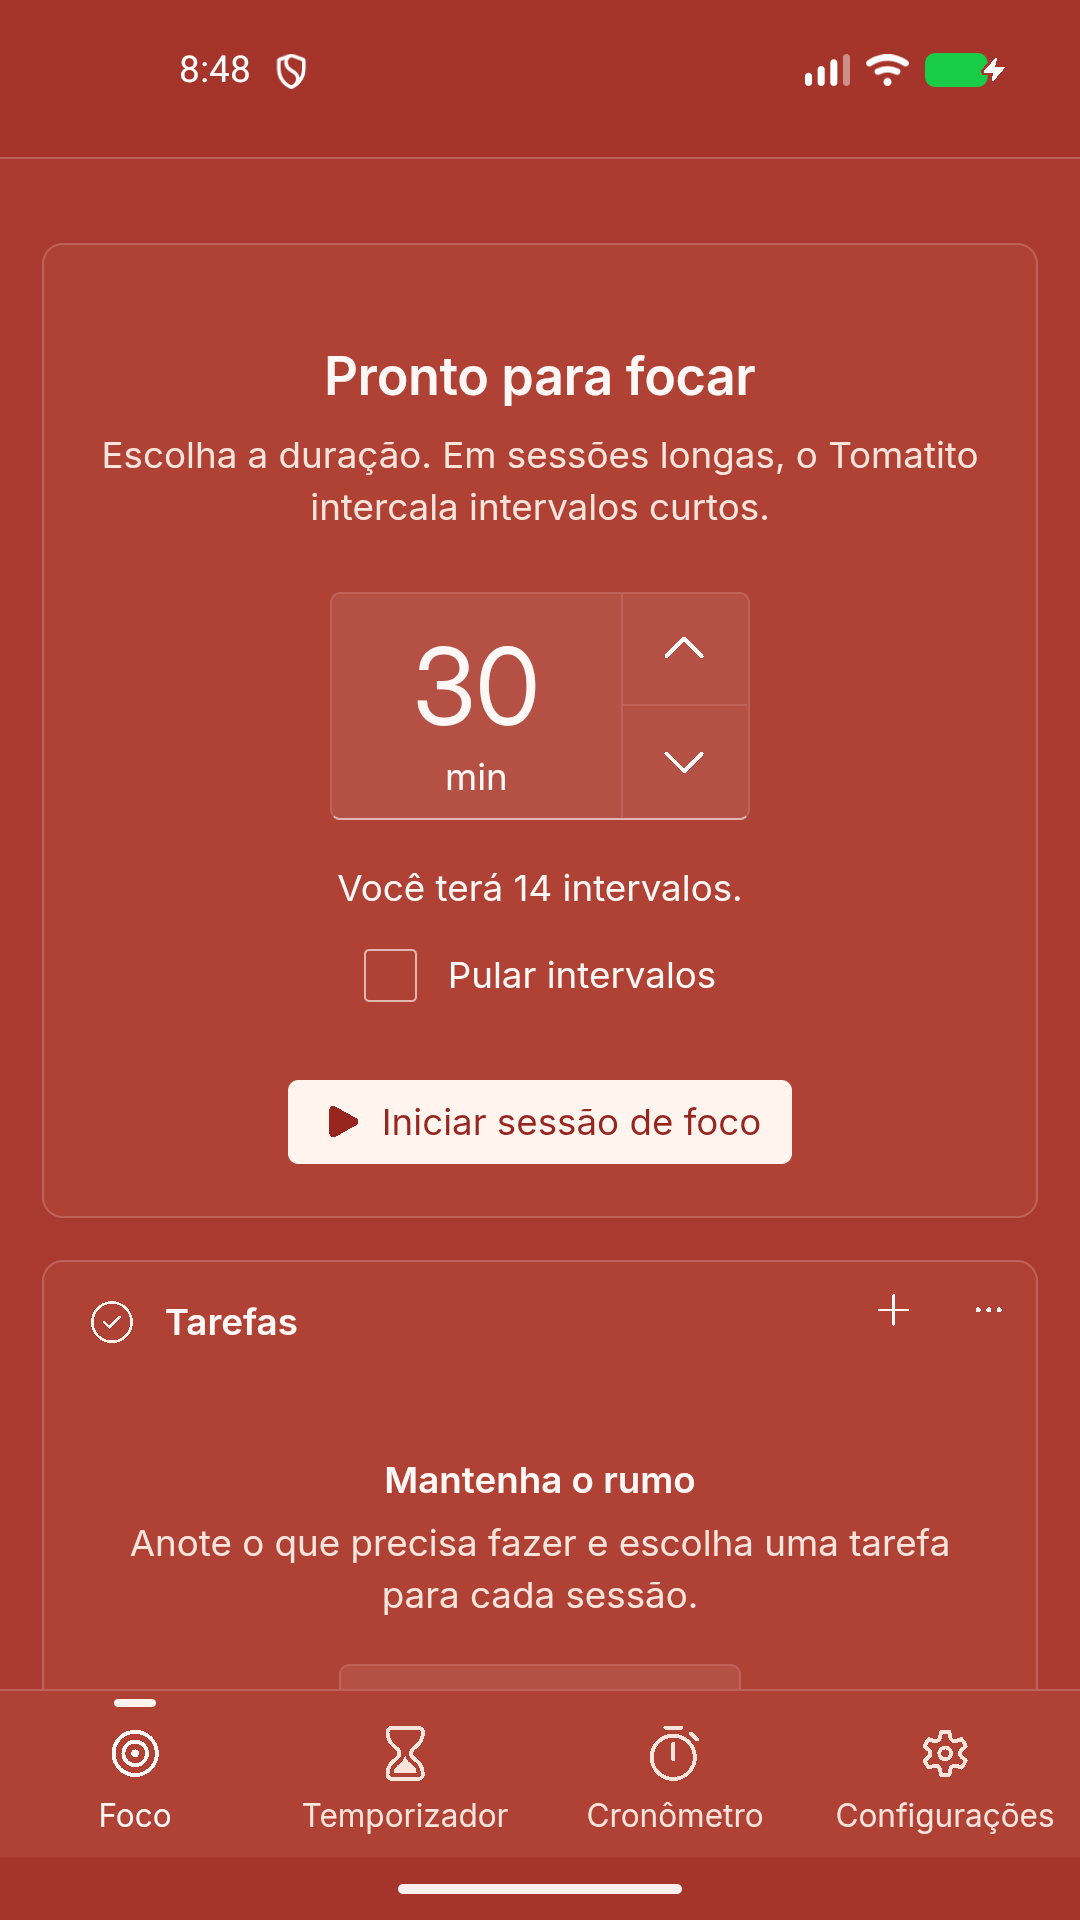
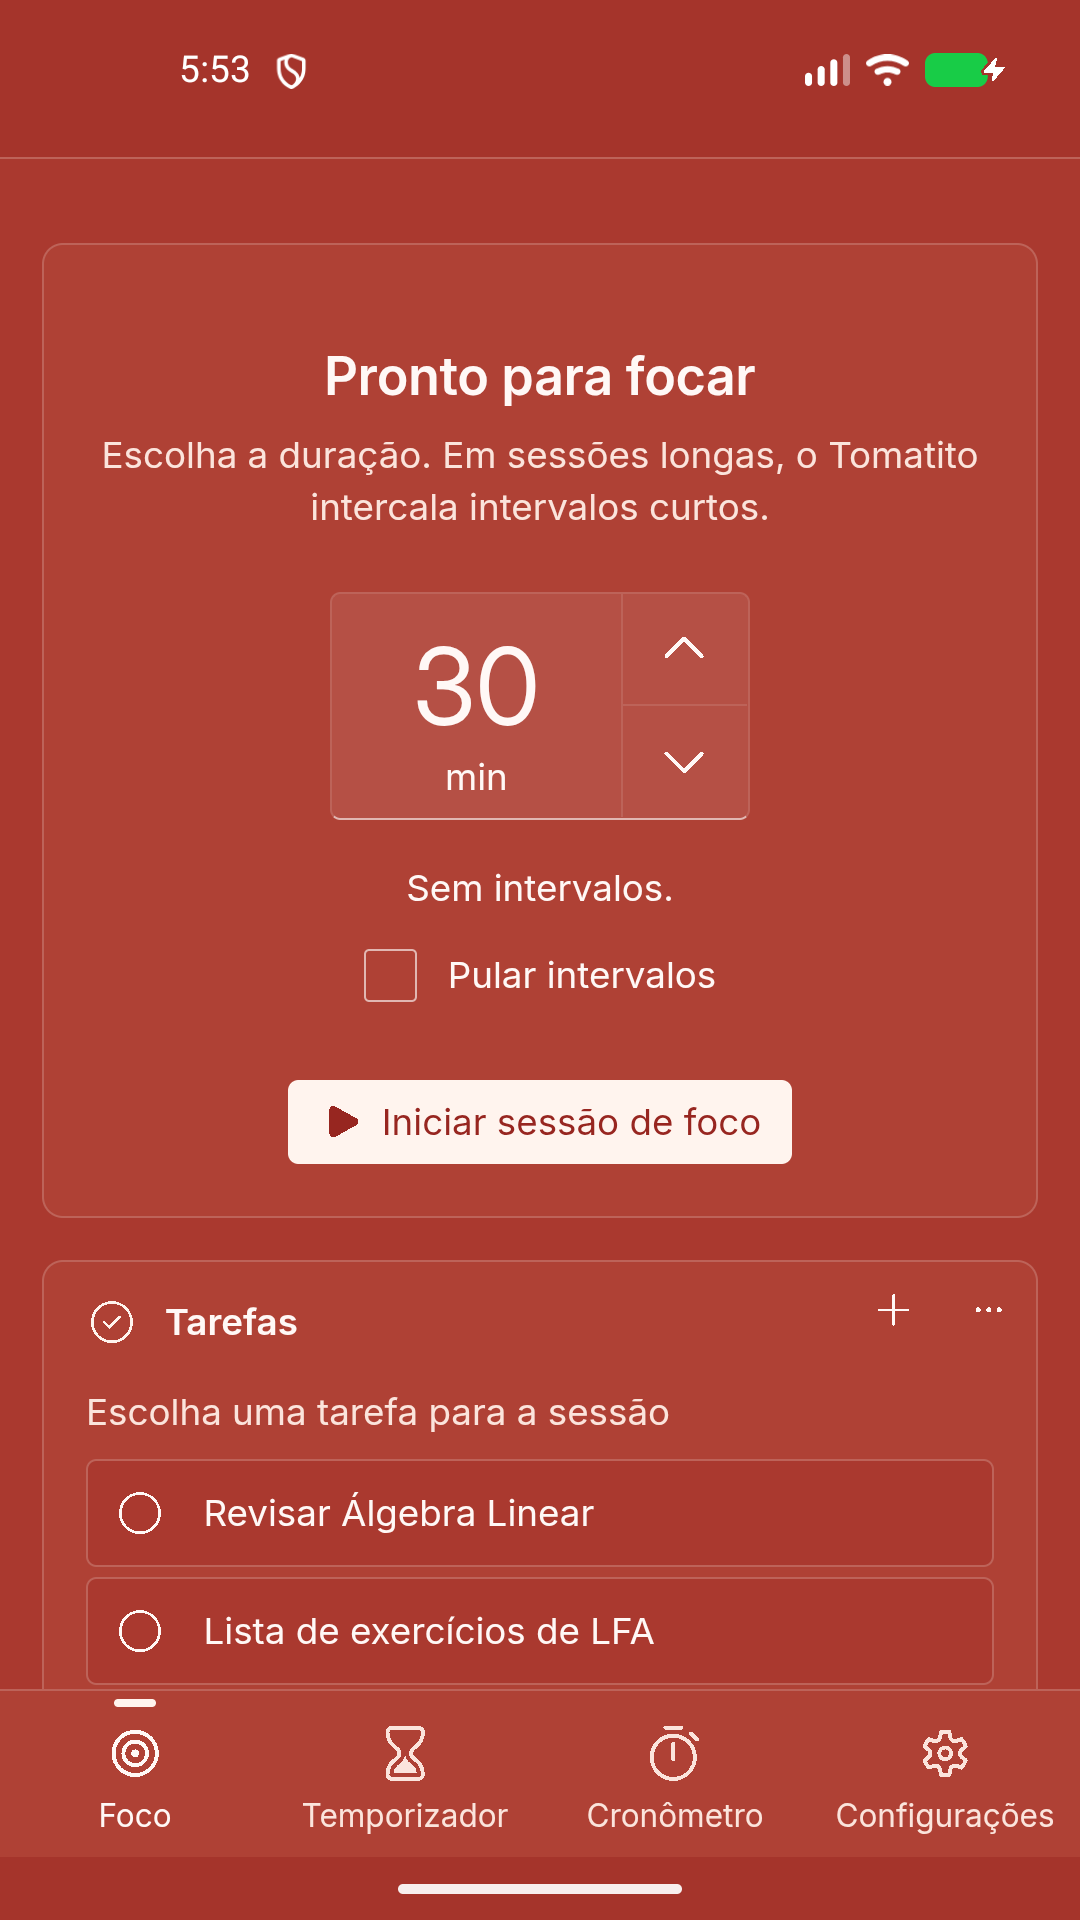
Android: a inicialização não monta a barra de título do desktop
A recusa do plugin de janela ("Plugin window not initialized") interrompia
o fim do módulo: o app ficava sem transições e a conferência do tema não
rodava. Some também o "Uncaught #<Object>" do console.

Versão 0.3.0, README e docs da v0.3.

Changed region(s): [[0.0917, 0.7188, 0.8861, 0.875], [0.3056, 0.4375, 0.6722, 0.4688], [0.1833, 0.0312, 0.2139, 0.0625]]

diff --git a/src/styles/controls.css b/src/styles/controls.css
@@ -372,7 +372,7 @@ fluent-dialog.tt-dialogo-historico::part(dialog){ width:400px; max-width:calc(10
 /* As barras: uma por semana, da mais antiga à mais nova, na altura da fração
    da maior (a --tt-fracao vem do JS). A semana sem foco fica só com o traço. */
 .tt-historico-grafico{ display:flex; align-items:flex-end; gap:6px; height:72px; padding:0 2px; border-bottom:1px solid var(--tt-border); }
-.tt-historico-barra{ flex:1 1 0; min-width:0; height:max(2px, calc(var(--tt-fracao, 0) * 100%)); border-radius:3px 3px 0 0; background:var(--tt-accent-fg); }
+.tt-historico-barra{ flex:1 1 0; min-width:0; max-width:28px; height:max(2px, calc(var(--tt-fracao, 0) * 100%)); border-radius:3px 3px 0 0; background:var(--tt-accent-fg); }
 .tt-historico-barra[data-vazia]{ background:var(--tt-stroke-control); opacity:.5; }
 .tt-historico-rolagem{ max-height:min(196px, 30dvh); margin-top:12px; overflow-y:auto; border-radius:var(--tt-r-ctl); }
 .tt-historico-rolagem:focus-visible{ outline:2px solid var(--tt-focus-outer); outline-offset:2px; }

diff --git a/src/main.js b/src/main.js
@@ -170,7 +170,12 @@ try {
   const pronto = Promise.all([...USADOS.map((t) => customElements.whenDefined(t)), document.fonts.ready, ligado]);
   await Promise.race([pronto, new Promise((r) => setTimeout(r, 2000))]);   // nunca deixar a janela presa escondida
 
-  await montarBarraDeTitulo(document.querySelector('.tt-titlebar'), win);
+  // No Android não há barra de título (a casca a esconde) nem janela para
+  // maximizar: o `isMaximized` cairia no plugin `window` do Kotlin, que não
+  // existe, e a recusa ("Plugin window not initialized") interrompia este
+  // módulo antes do fim (as transições ficavam desligadas e a conferência do
+  // tema não rodava).
+  if (!casca.android) await montarBarraDeTitulo(document.querySelector('.tt-titlebar'), win);
   if (temaDeBase(h) === 'system') {
     const t = await temaDoSistemaAgora(win, h, () => midia.matches);
     if (t) h.dataset.theme = t;

diff --git a/src-tauri/src/update.rs b/src-tauri/src/update.rs
@@ -51,8 +51,10 @@ pub struct UpdateError {
 
 /// Evento do download: `{ downloaded, total }`, em bytes (`total` nulo se o
 /// servidor não disse o tamanho).
+#[cfg(desktop)]
 pub const EVENTO_PROGRESSO: &str = "tt://update-progress";
 /// Evento da procura ao abrir, quando acha uma versão: `{ version }`.
+#[cfg(desktop)]
 pub const EVENTO_DISPONIVEL: &str = "tt://update-available";
 
 #[cfg(desktop)]

diff --git a/docs/depois.md b/docs/depois.md
@@ -72,17 +72,14 @@ Formato: data, marco em que surgiu e uma linha sobre a ideia.
 
 ## Web: o que ficou para depois (PLANO-WEB-V1, 2.2)
 
-- Manter a tela ligada durante o foco (Wake Lock).
 - Sonda e relógio em Worker para o segundo plano (W10).
-- Instância única entre abas (W15).
-- Exportar e importar os dados (W19).
 - Atalhos na aba (W21) e revisão de acessibilidade da web (W22).
 - CI da web (W25a) e documentação de uso (W25b).
-- Tomatito Full na web: tomate em tela cheia e mini tomate em Picture-in-Picture (WF0–WF4).
 - `--servidor pages` no `verificar.mjs` e o caso `pwa-publicado` (W40b).
 - **Tamanho do `.wasm` da web (anotado no W09, 30/09/2026).** Com a retomada, o `tomatito_wasm_bg.wasm` tem 534 103 bytes, 1 623 acima do limite de 532 480 (520 KiB) do W01a e do W06a (detalhe e tentativas em `docs/web/linha-de-base.md`, W09). Decidir entre subir o limite (o gzip é de 205 KB) ou cortar: por exemplo, o tzdb embutido do jiff (a maior parte dos 250 KiB da seção de dados) ou uma desserialização manual das partes do estado.
 - **Android: rodada com o *notification cooldown* do sistema (A12).** O `emulador.mjs subir` desliga o cooldown do Android 15+ para que cada fim da receita de 60 s toque. No aparelho do usuário ele vem ligado, e no A02 um aviso 30 s depois de outro saiu mudo. Rodar o roteiro do A12 uma vez com `settings delete system notification_cooldown_enabled` e registrar se o fim do intervalo (a 60 s do fim do foco) toca, baixo ou mudo. Se calar com fases curtas, anotar na ficha ou no `PUBLICAR.md`; com fases de vários minutos não deve pesar. **Feito no A12 (30/09/2026):** os 3 fins a 60 s tocaram com o cooldown do sistema (`segundo-plano.mjs --cooldown-do-sistema`).
 - **Android: repor a contínua depois do boot (anotado no A11, 30/09/2026).** O `BootReceiver` reagenda os alarmes, mas não a notificação contínua, que o sistema apagou; ela volta no próximo fim ou ao abrir o app. Dá para guardar a contínua de agora nas `SharedPreferences` a cada `agendar`/disparo e repô-la no `reagendar` (se o `fimMs` não venceu, ou se está pausada).
 - **Android: botões na notificação contínua (5.3; anotado no A11).** "Pausar"/"Retomar" pela notificação exigiria acordar o motor (subir o processo e o Rust) a partir de um `BroadcastReceiver`. Fora da v1.
 - **Android: anúncio da sessão concluída na retomada (anotado no A12, 30/09/2026).** Ao reabrir o app depois de a sessão acabar com ele morto, o "Sessão de foco concluída." da região `aria-live` depende de o `tt://phase` da retomada chegar depois de o ouvinte estar ligado (às vezes chega antes e o TalkBack não diz nada). Anunciar a partir do `get_state` inicial quando `focus.status = "completed"` e `completedAt` for recente; e dar à tela Foco do celular um estado "Concluída" visível (A05/A16a).
-- Android: investigar o "Uncaught #<Object>" no console na abertura do app (A06, item 6).
+- **Web: a tela ligada fora do Full.** O Wake Lock entrou só no palco do Tomatito Full (v0.3); na tela Foco normal, a tela ainda pode apagar.
+- **Atualização por dentro do app: a instalação de ponta a ponta.** A procura foi conferida num AppImage de teste (0.2.99 contra um `latest.json` local: achou a 0.3.0 e avisou). O download e a troca do instalador são do plugin do Tauri e só vão ser exercitados de verdade na primeira versão depois da 0.3.0; o Windows nunca foi testado em máquina real.

diff --git a/docs/decisoes.md b/docs/decisoes.md
@@ -1751,3 +1751,14 @@ Na worktree `android`, com A13, A05, A06, A14 e A15 feitos: `npm test` 497/497; 
 2. O `versao.mjs` contava a linha "não enviado" como enviada (o `\s*` antes do lookahead recuava); corrigido.
 
 **Verificação final na `main` (05/10/2026):** `npm test` 498/498; 29 casos da web verdes no perfil de desktop e no `--celular m`; bateria do desktop com `build.txt` igual ao da base, 24/24 capturas iguais e nenhum teste do cargo a menos. O roteiro `config-sistema` acusou 14/16 só porque conferia o texto fixo "Versão 0.1.0"; passou a conferir a forma (`Versão x.y.z`) e voltou a 16/16.
+
+## v0.3 (05/10/2026)
+
+1. **Histórico.** "Ver histórico", no cartão Progresso diário, abre uma janela com o total de todo o tempo (tempo, períodos e dias com foco) e o foco por semana (12 barras e a tabela inteira). O cálculo é o `days::history` do core, o mesmo no desktop, no Android e na web (wasm). Sem sequência, recorde nem comparação: só os números.
+2. **Atualização por dentro do app (desktop).** `tauri-plugin-updater` 2.13.1, sem comandos liberados à página (quem fala com ele é o `update.rs`). **O app só consulta a internet por clique**, ou com "Procurar ao abrir" (`autoUpdate`, desligada por padrão); a consulta lê o `latest.json` do último release publicado. O `tauri.release.conf.json` liga as assinaturas só no `release.yml`, para o build comum não exigir a chave. As chaves ficam fora do repositório (`~/.config/tomatito/updater/`) e nos segredos do GitHub.
+3. **Repositório APT.** O `.deb` leva a fonte (`/etc/apt/sources.list.d/tomatito.sources`) e a chave pública; o `apt.yml` refaz o repositório na branch `gh-pages` a cada release publicado. Conferido com um `apt-get update` isolado sobre o `.deb` da 0.2.0 (assinatura aceita, candidato 0.2.0). Detalhes em `docs/atualizacoes.md`.
+4. **Web: uma aba só.** Web Locks, com a espera dentro do `motor.iniciar()`: numa aba duplicada o motor não nasce. Pôr a espera no `index.js` (top-level await) deixava o `aba.js` ligar o motor antes dos ouvintes, e um período vencido com a aba fechada não era gravado (o caso `retomada` pegou).
+5. **Web: exportar e importar.** Um JSON com as duas stores do IndexedDB e as chaves `tomatito:` do localStorage. Importar substitui tudo numa transação e recarrega; o localStorage e a recarga vão no mesmo passo, para o motor da aba não regravar o estado antigo.
+6. **Web: Tomatito Full.** O tomate num palco por cima do app, com o desenho tirado do `tomato.html` e a folha `tomato.css` aplicada por `adoptedStyleSheets` (sem a regra `html, body`). `switch_window_mode` e `show_main` passaram a existir na web e fazem com as configurações o que o Rust faz. "Tela cheia" (Fullscreen API) e "Mini tomate" (Document Picture-in-Picture) só aparecem onde o navegador oferece; os dois foram exercitados com clique real no Chrome sem janela.
+7. **Android: o "Uncaught #<Object>" da abertura.** Era o `montarBarraDeTitulo` chamando o `isMaximized`, que no Android cai no plugin `window` do Kotlin (inexistente) e rejeita com "Plugin window not initialized". Como a chamada fica no fim do módulo, a recusa interrompia o resto: a classe `tt-no-transition` nunca saía (o app ficava sem transições) e a conferência do tema não rodava. No Android a barra não é mais montada.
+

diff --git a/README.md b/README.md
@@ -1,15 +1,17 @@
 # Tomatito
 
-Timer de foco leve para Windows e Linux.
+Timer de foco leve para Windows, Linux, Android e navegador.
 
 Você escolhe a duração da sessão de foco, e o Tomatito intercala intervalos curtos nas sessões longas. A v1 terá também temporizadores, cronômetro, progresso diário e cinco temas, com estética sóbria e sem gamificação.
 
-**Em desenvolvimento.** Ainda não há versão publicada nem instaladores.
+Versão web, sem instalar: <https://tomatito.kbrianps.workers.dev>. Instaladores: [releases](https://github.com/kbrianps/tomatito/releases/latest).
 
 ## Plataformas
 
 - Linux: Ubuntu 26.04 com GNOME 50 (Wayland).
 - Windows 11. O Windows 10 é suportado em melhor esforço.
+- Android 12 ou mais novo.
+- Navegador (Chrome, Edge, Firefox ou Safari recentes), no computador e no celular.
 
 ## Bandeja
 
@@ -19,11 +21,21 @@ No GNOME, a bandeja depende da extensão AppIndicator (vem ativa no Ubuntu). Sem
 
 ## Privacidade
 
-Nenhum dado sai do computador: sem rede e sem contas. Configurações e histórico ficam na pasta de dados do app.
+Nenhum dado sai do aparelho, e não há contas. Configurações e histórico ficam na pasta de dados do app (na web, no próprio navegador, com exportar e importar nas Configurações).
+
+O app do computador só acessa a internet para procurar atualizações, e só quando você clica em "Procurar atualizações" ou liga "Procurar ao abrir" (desligada por padrão). O app do Android não acessa a internet.
 
 ## Instalar
 
 Os instaladores ficam nos releases do repositório: `.deb` e AppImage para Linux, `.msi` e `.exe` para Windows. O `.exe` instala só para o seu usuário, sem pedir administrador. Cada tag `v*` gera um rascunho de release pelo `.github/workflows/release.yml`; a versão vem do `src-tauri/Cargo.toml`.
+
+## Atualizar
+
+- **Windows e AppImage:** Configurações → Atualização → "Procurar atualizações". O Tomatito baixa a versão nova, confere a assinatura, instala e reinicia.
+- **`.deb` (Ubuntu e Debian):** o pacote configura o repositório APT do Tomatito, e as versões novas chegam pelo atualizador do sistema (`sudo apt update && sudo apt upgrade`). O botão das Configurações também funciona.
+- **Android:** pela Google Play. **Web:** a página se atualiza sozinha.
+
+Os detalhes (endereços, chaves e como parar de receber) estão em [`docs/atualizacoes.md`](docs/atualizacoes.md).
 
 ## Desenvolvimento
 
